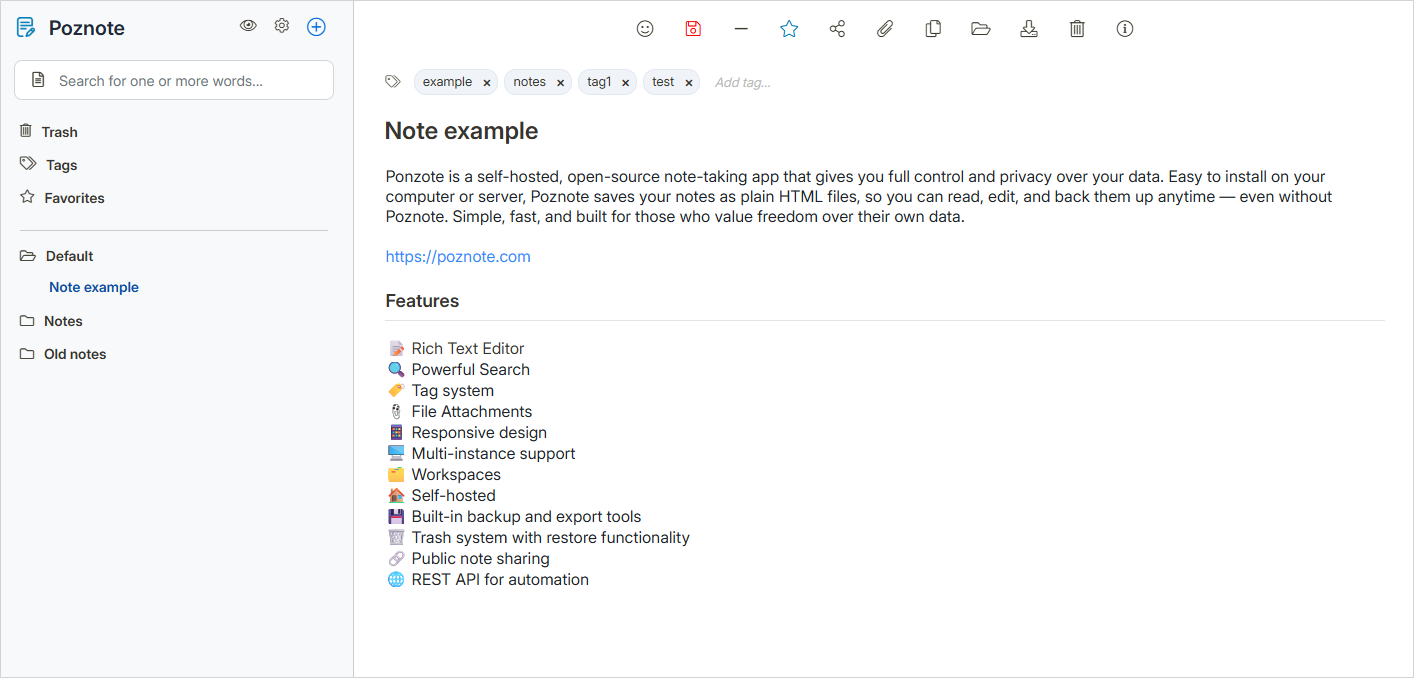
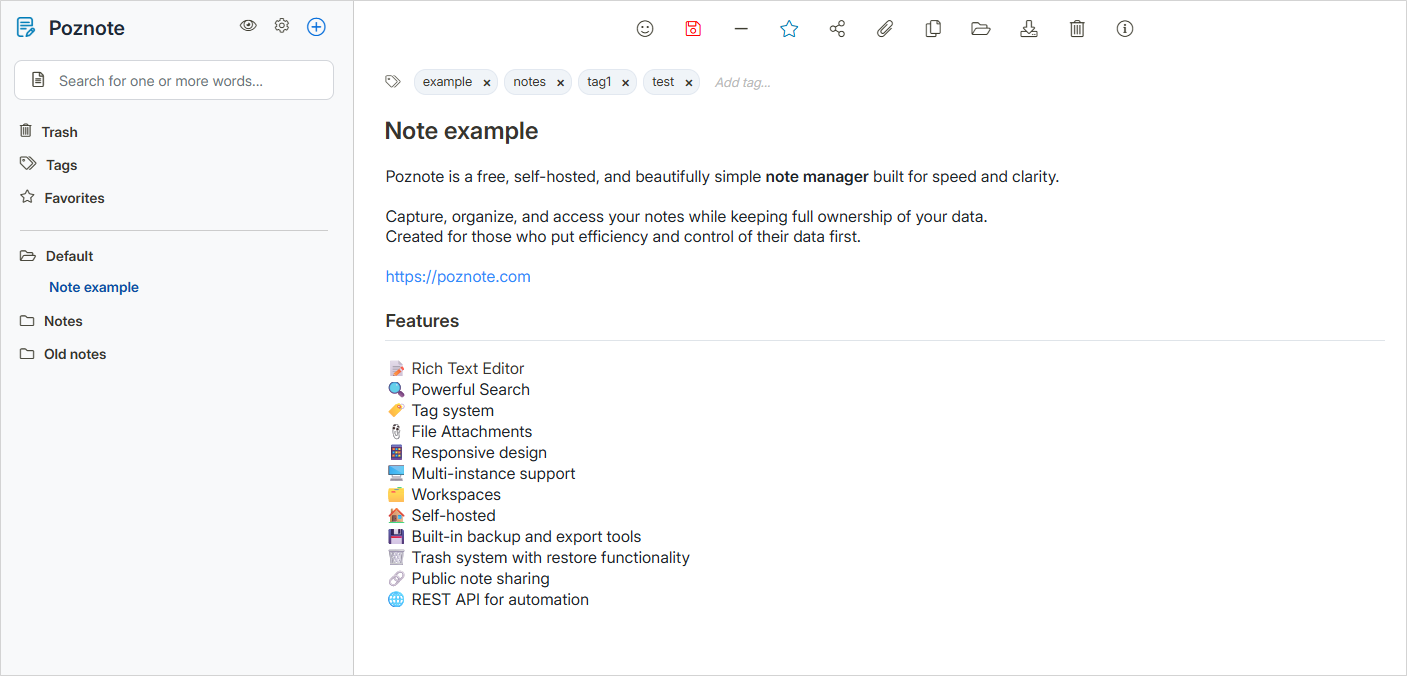
fix: Improve introduction formatting for better readability

diff --git a/README.md b/README.md
@@ -19,7 +19,9 @@
 
 ## Introduction
 
-Poznote is a free, self-hosted, and beautifully simple note manager built for speed and clarity.<br><br>Capture, organize, and access your notes while keeping full ownership of your data. No tracking, no lock-in, just you and your notes. Created for those who put efficiency and control of their data first.
+Poznote is a free, self-hosted, and beautifully simple note manager built for speed and clarity.<br><br>
+Capture, organize, and access your notes while keeping full ownership of your data.<br>
+Created for those who put efficiency and control of their data first.
 
 ![poznote](readme/poznote.png)
 
